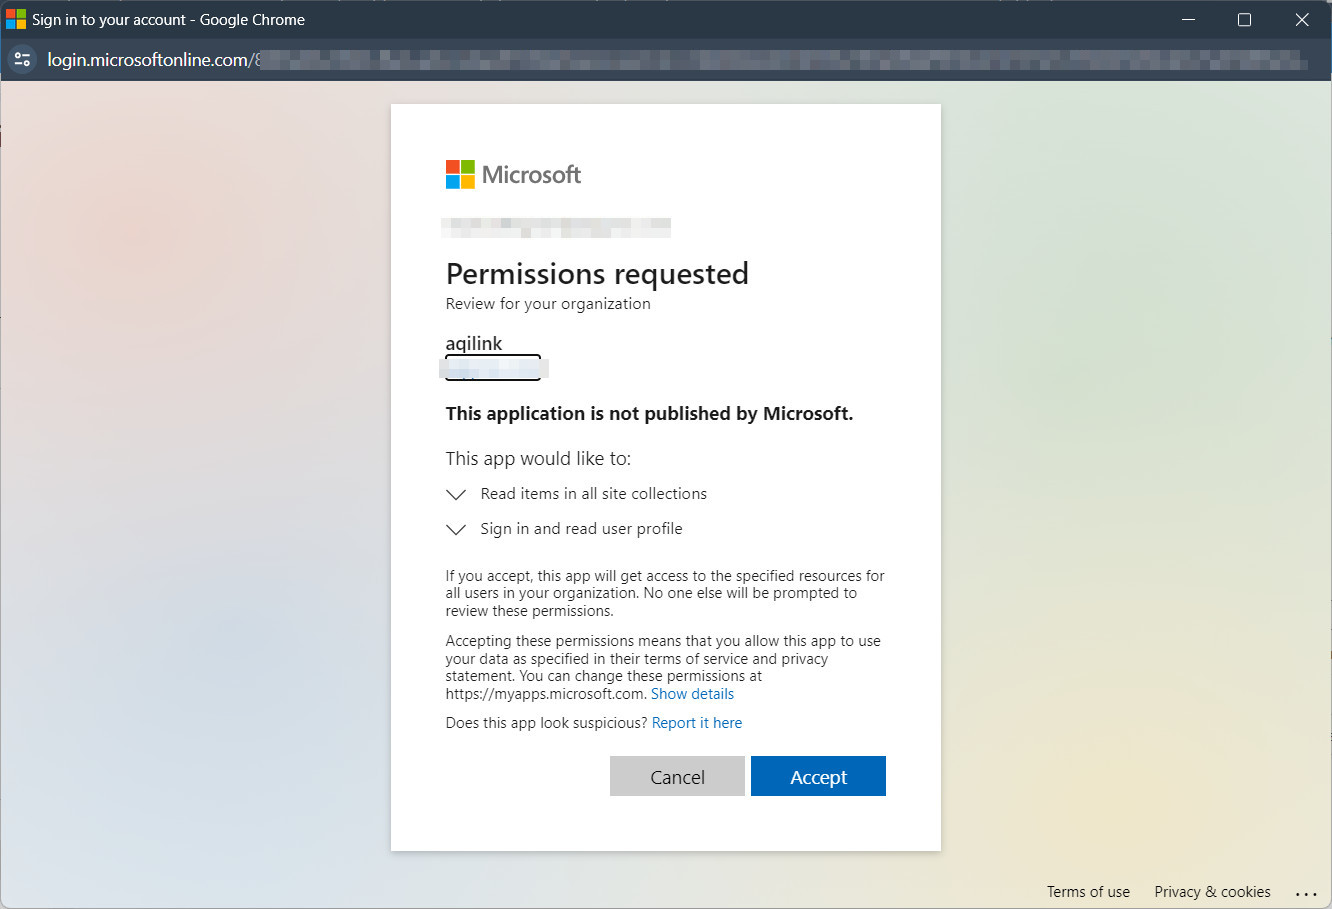
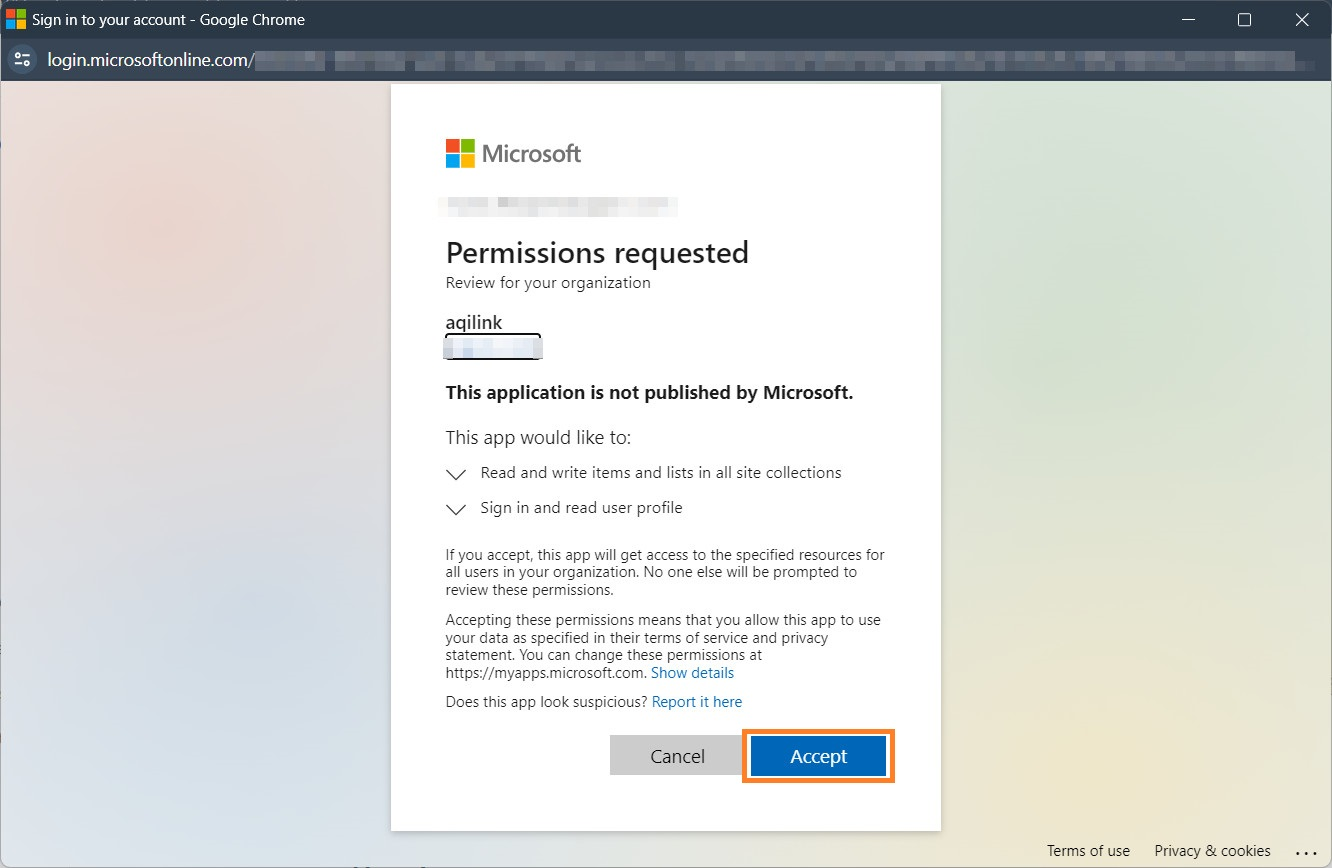
Replaced screenshots, enhanced documentation, enhanced FAQ section.

diff --git a/docs/configuration/storages/sharepoint/azure.md b/docs/configuration/storages/sharepoint/azure.md
@@ -17,7 +17,7 @@ Follow these steps to create and register the application in Azure AD.
 ## Upload certificate for secure connection
  After creating the app, a certificate must be generated and uploaded to secure the communication between the **`aqilink`** and SharePoint Online. Follow these steps:
 
-1) **Optional:** Generate a Certificate (if you don't have one): Use tools like OpenSSL or PowerShell to generate a self-signed certificate. Make sure it's saved in a secure location.
+1) **Optional:** Generate a Certificate (if you don't have one): Use tools like OpenSSL or PowerShell to generate a self-signed certificate. Make sure it's saved in a secure location. Learn more in the [official Microsoft documentation](https://learn.microsoft.com/en-us/sharepoint/dev/solution-guidance/security-apponly-azuread).
 2) Upload the Certificate to Azure AD:
     * In the **`aqilink`**'s application overview page click on *Certificates & secrets* tab.
     * Then on "Upload certificate" and select your certificate file.
@@ -25,23 +25,26 @@ Follow these steps to create and register the application in Azure AD.
    ![Mircosoft Azure Upload Certificate](../../../_media/configuration/azure/azure_portal_upload_certificate.jpg)
 
 ## Grant Permissions and consent to the application
-To allow the **`aqilink`** app to access SharePoint Online, you must grant the necessary permissions. 
+To allow the **`aqilink`** application to access SharePoint Online, you must grant the necessary permissions. 
 1) From the **`aqilink`**'s application overview page click on *API permission* in the menu.
-   1) Remove the *User.Read* permission for Microsoft Graph, as this is not required by the **`aqilink`** app.
-   2) Add the new permission *Sites.Read.All* from the SharePoint **Application permission** (not "Delegated permission") list
-   3) Grant the missing Admin consent for the permission. The section should now look similar to this: 
+   1) Remove the **_User.Read_** permission for Microsoft Graph.
+   2) Click *Add a permission*, then choose the SharePoint API and click on **Application permissions**.
+   3) Search for permission **_Sites.Manage.All_** and select it from the list. 
+      > The **_Sites.Manage.All_** permission allows the **`aqilink`** application to read, create, update, and delete document libraries and lists in all site collections without a signed in user.
+   4) Grant admin consent for the new permission by clicking on *Grant admin consent for {{companyName}}*.
+      The section should now look similar to this: 
       ![Mircosoft Azure Grant Permission](../../../_media/configuration/azure/azure_portal_grant_permission.jpg)
 
 !> Note the link on the bottom of the *API Permissions* page which redirects you to the *Enterprise applications* view!
 
-1) Grant Admin consent to the application 
+1) Grant permissions to the **`aqilink`** application on behalf of all users (delegated permissions).
    1) Navigate to the *Enterprise applications* view (as mentioned above) and review the added permission
-   2) Click *Grant admin consent for ...*:
+   2) Click *Grant admin consent for {{companyName}}*:
       ![Mircosoft Azure Grant Admin Consent](../../../_media/configuration/azure/azure_portal_enterprise_grant_permission_overview.jpg)
     3) Now, you must accept the requested permissions:
       ![Mircosoft Azure Grant Admin Consent](../../../_media/configuration/azure/azure_portal_enterprise_grant_permission.jpg)
 
-> All required permissions has been assigned and consent approved. The Azure AD **`aqilink`** application was configured properly.
+> All required permissions have been assigned, and consent has been approved on behalf of the administrator for all users. The Azure AD **`aqilink`** application was configured properly.
 
 ## Obtaining required information
 After setting up the application, it is necessary to note down a few values, as these are required for the [Storage Connection](/configuration/aqilink/?id=microsoft-sharepoint-online-spo) in **`aqilink`**. Navigate back to the Azure AD **`aqilink`** application and collect the following information:

diff --git a/docs/faq.md b/docs/faq.md
@@ -61,4 +61,6 @@ When testing the basic connection via **`aqilink`** to the repository, if the me
 ### SAP: 500 Internal Server Error
 When testing the basic connection via **`aqilink`** to the repository, if the message `500 Internal Server Error` is returned, this could indicate several possible issues with the current configuration. Check the related log files of the **`aqilink`** and/or repository container. For instance, if Nuxeo is the repository behind **`aqilink`**, ensure that the service name in the `docker-compose.yaml` matches the name in the `baseUrl` parameter of the [`storage.yaml`](/configuration/aqilink/#hyland-nuxeo-repository) configuration file. Also, verify that all services in the `docker-compose.yaml` are using the same network.
 
+!>If **SharePoint** is to be connected as an SAP Content Repository, ensure that the created Azure AD application has the appropriate permissions. Refer to the [Create Microsoft Azure Application](/configuration/storages/sharepoint/azure) documentation for guidance.
+
 ![Internal Server Error](/_media/faq/0005_sap_internalServerError.png)
